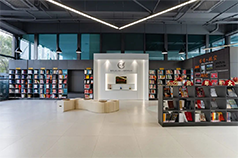
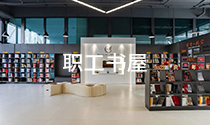
修改swiper图片

diff --git a/m/118/index.html b/m/118/index.html
@@ -293,6 +293,12 @@
                 <div class="swiper-slide">
                   <img src="./images/page3/swiper4.png" alt="" />
                 </div>
+                <div class="swiper-slide">
+                  <img src="./images/page3/swiper5.png" alt="" />
+                </div>
+                <div class="swiper-slide">
+                  <img src="./images/page3/swiper6.png" alt="" />
+                </div>
                 <!-- <div class="swiper-slide"><img src="./images/page3/swiper5.png" alt=""></div>
                             <div class="swiper-slide"><img src="./images/page3/swiper6.png" alt=""></div> -->
               </div>

diff --git a/118/discipline.html b/118/discipline.html
@@ -181,7 +181,7 @@
                     alt=""
                     srcset=""
                   />
-                  <p class="tst">职业书屋</p>
+                  <p class="tst">职工书屋</p>
                 </div>
                 <div class="swiper-slide">
                   <img
@@ -189,7 +189,7 @@
                     alt=""
                     srcset=""
                   />
-                  <p class="tst">小游园</p>
+                  <p class="tst">苏州园林</p>
                 </div>
               </div>
             </div>
